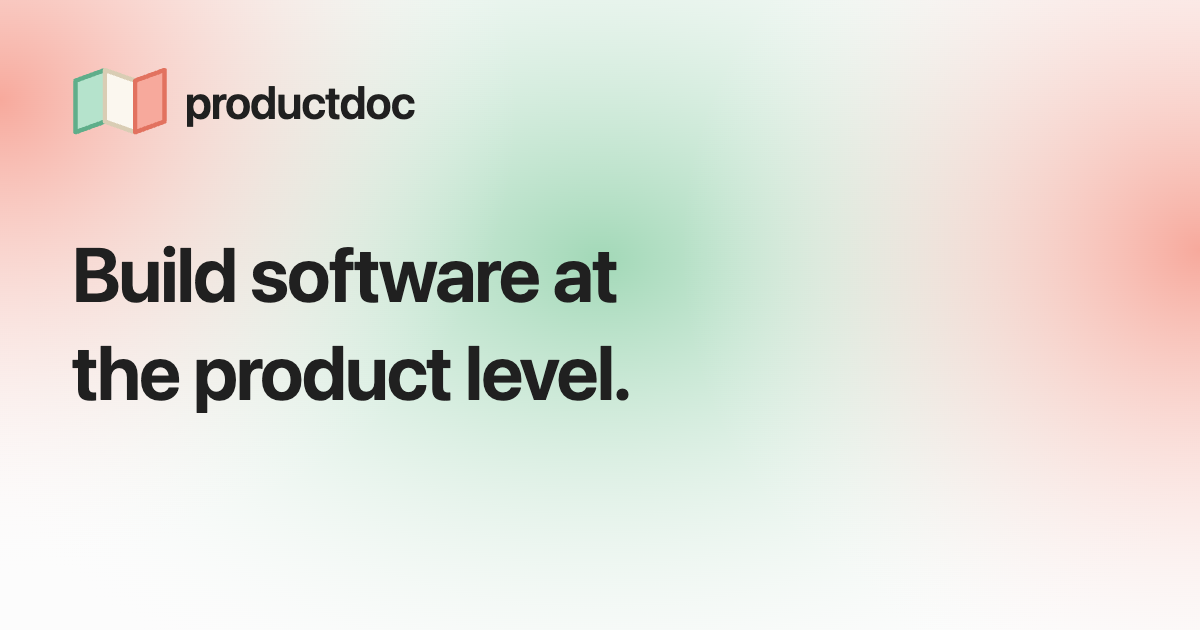
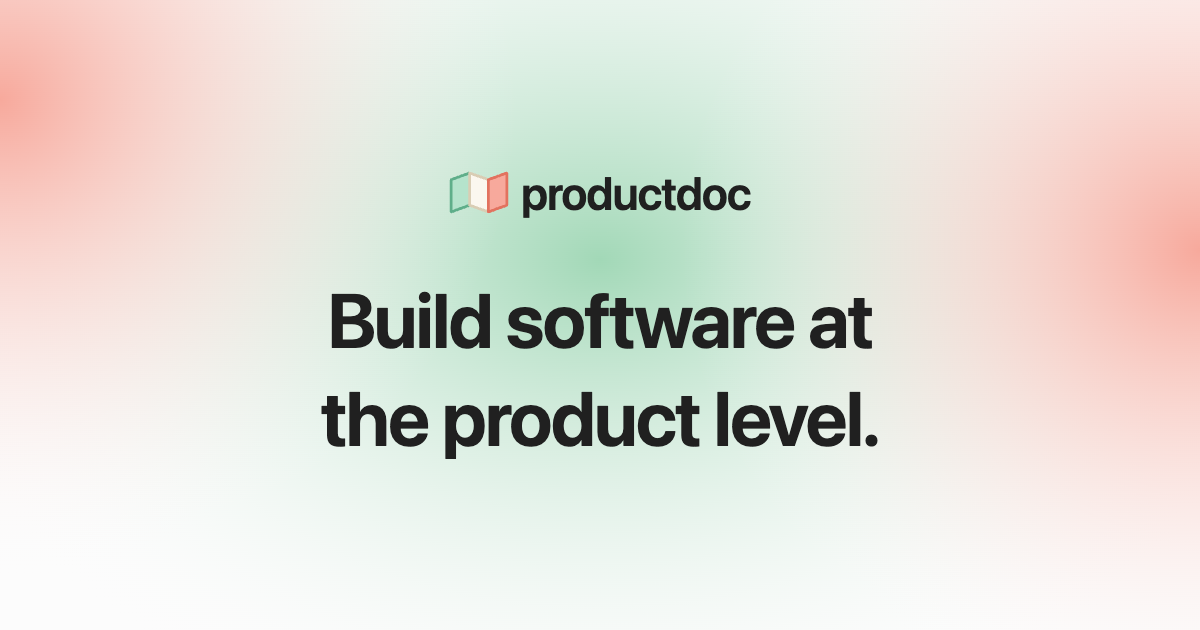
Center the social card and balance the brand lockup

Changed region(s): [[0.0617, 0.3921, 0.74, 0.7238], [0.0617, 0.0905, 0.37, 0.2111], [0.37, 0.2714, 0.6475, 0.3619]]

diff --git a/src/website/social.html b/src/website/social.html
@@ -25,6 +25,11 @@
 
       main {
         position: relative;
+        display: flex;
+        flex-direction: column;
+        align-items: center;
+        justify-content: center;
+        gap: 48px;
         width: 1200px;
         height: 630px;
       }
@@ -35,27 +40,25 @@
       }
 
       .brand {
-        position: absolute;
-        top: 54px;
-        left: 72px;
+        position: relative;
         display: flex;
         align-items: center;
-        gap: 17px;
-        height: 96px;
+        gap: 12px;
+        height: 60px;
         font-size: 46px;
         font-weight: 600;
+        line-height: 60px;
         letter-spacing: -1px;
       }
 
       h1 {
-        position: absolute;
-        top: 225px;
-        left: 72px;
+        position: relative;
         margin: 0;
         font-size: 76px;
         font-weight: 650;
         line-height: 98px;
         letter-spacing: -1.5px;
+        text-align: center;
       }
     </style>
   </head>
@@ -88,8 +91,8 @@
       <div class="brand">
         <!-- Original artwork from src/landing/Logo.tsx. -->
         <svg
-          width="96"
-          height="96"
+          width="60"
+          height="60"
           viewBox="4 -8 108 108"
           stroke-width="5"
           stroke-linejoin="round"
